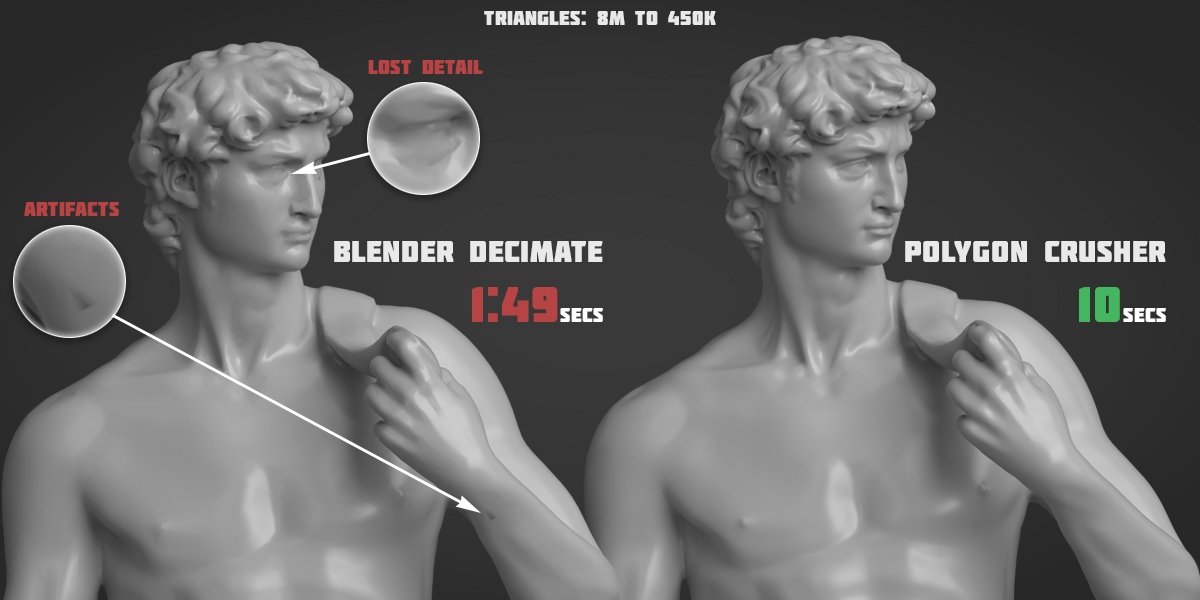
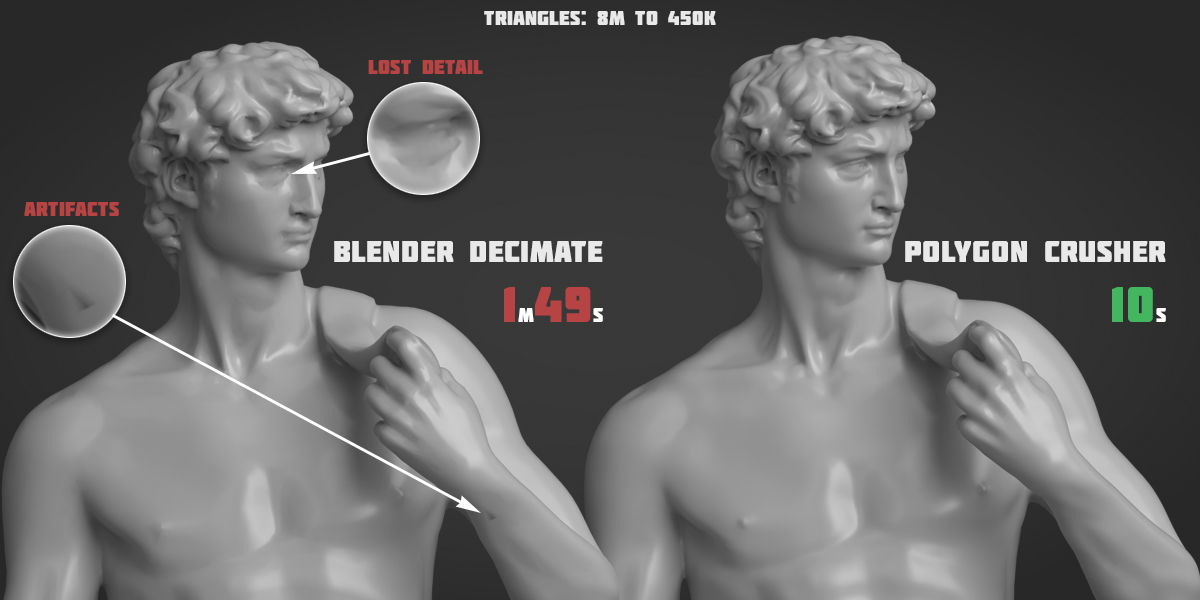
Update example01 art and add example02 to Examples page
example01: refresh image (cleaner timing format "1m49s / 10s"
instead of "1:49 SECS / 10 SECS").

example02: new 70K → 2K hard-surface comparison showing Polygon
Crusher preserving silhouette and curvature on a tight triangle
budget where Decimate distorts the form.

Reorganize the Examples page into two sections — high-poly sculpt
and hard-surface mesh — with brief captions explaining what each
image is showing.

Changed region(s): [[0.37, 0.48, 0.4933, 0.54], [0.8942, 0.48, 0.9867, 0.54]]

diff --git a/docs/examples.md b/docs/examples.md
@@ -1,9 +1,19 @@
 # Examples
 
-## Polygon Crusher vs Blender Decimate
+## High-poly sculpt — 8M → 450K triangles
 
-Same source mesh, same target reduction (8M → 450K triangles). Polygon Crusher
-runs roughly 11× faster and avoids the artifacts and lost detail produced by
-Blender's built-in Decimate modifier.
+A photogrammetry-grade scan crushed to about 6% of its original triangle count.
+Polygon Crusher runs roughly 11× faster than Blender's built-in Decimate and
+avoids the artifacts and lost detail visible in the Decimate result.
 
-![Polygon Crusher vs Blender Decimate — 8M to 450K triangles, 10s vs 1:49](assets/PolygonCrusher9000_example01.jpg)
+![Polygon Crusher vs Blender Decimate — 8M to 450K triangles, 10s vs 1m49s](assets/PolygonCrusher9000_example01.jpg)
+
+---
+
+## Hard-surface mesh — 70K → 2K triangles
+
+A 97% reduction on a hard-surface mesh. Polygon Crusher preserves the silhouette
+and curvature of the original shape on a tight triangle budget, where Decimate
+distorts the form.
+
+![Polygon Crusher vs Blender Decimate — 70K to 2K triangles on a hard-surface mesh](assets/PolygonCrusher9000_example02.jpg)
